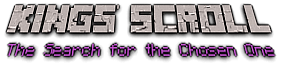
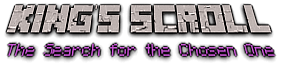
rewrote the tutorial to fit the theme

Changed region(s): [[0.3132, 0.0308, 0.4555, 0.5846]]

diff --git a/src/app/pages/game/tour.sheperd.ts b/src/app/pages/game/tour.sheperd.ts
@@ -1,4 +1,5 @@
 import { PropertyCombination } from "src/app/model/property-combination.interface";
+import { archMageName, dragonName, dragonTitle, kingdomName } from "./names-and-locations";
 
 export const sheperdRequiredElements = [
     {
@@ -24,9 +25,45 @@ const template = {
     },
     highlightClass: 'highlight',
     scrollTo: false,
+    title: `${archMageName} - The Archmage`,
+    buttons: [
+      {
+        classes: 'shepherd-button-primary',
+        text: 'Next',
+        type: 'next'
+      }
+  ]
 } 
 
+export const generalWorldIntroduction = [
+  {
+    ...template,
+    id: 'welcome',
+    text: [makeWizardDialogBody(`Greetings adventurer, welcome to the kingdom of ${kingdomName}!<br/><br/>My name is ${archMageName}, archmage and the king's most trusted advisor.`)],
+  },
+  {
+    ...template,
+    id: 'welcome',
+    text: [makeWizardDialogBody(
+      `Normally our kingdom is a beautiful place to visit, but I am afraid you caught us at a bad time.
+      <br/><br/>
+      Our kingdom is currently under attack by the evil dragon ${dragonName}, ${dragonTitle}.`
+      )],
+  },
+  {
+    ...template,
+    id: 'welcome',
+    text: [makeWizardDialogBody(
+      `According to ancient legends the magic scroll should tell us who to appoint as our chosen champion, the only one that can defeat ${dragonName}!
+      <br/><br/>
+      Unfortunately however I do not understand what the scroll is trying to tell me!
+      Can you help me decipher the scroll?`
+      )],
+  },
+];
+
 const steps = [
+    ...generalWorldIntroduction,
     {
         ...template,
         id: 'codeSnippet',
@@ -34,15 +71,7 @@ const steps = [
           element: '.codesnippet-container', 
           on: 'right'
         },
-        title: 'Code snippet!',
-        text: [makeWizardDialogBody('This is the code snippet that you should understand. Try to trace the execution of the script and predict the end-state of the boolean values.')],
-        buttons: [
-            {
-              classes: 'shepherd-button-primary',
-              text: 'Next',
-              type: 'next'
-            }
-        ]
+        text: [makeWizardDialogBody('This is the scroll that contains the description of the chosen one. Do you know what these symbols mean?')],
     },
     {
         ...template,
@@ -51,20 +80,7 @@ const steps = [
           element: '.tracing-helper-container', 
           on: 'right'
         },
-        title: 'Code tracer!',
-        text: [makeWizardDialogBody('This is your scribble zone that you can use to help yourself when tracing the code.')],
-        buttons: [
-            {
-              classes: 'shepherd-button-primary',
-              text: 'Back',
-              type: 'back'
-            },
-            {
-              classes: 'shepherd-button-primary',
-              text: 'Next',
-              type: 'next'
-            }
-        ]
+        text: [makeWizardDialogBody('The ancient mages also left some tools behind that are supposed to help you keep track of the state as you are deciphering the scroll, I am sure these tools can be of great help!')],
     },
     {
         ...template,
@@ -73,17 +89,12 @@ const steps = [
           element: '.gamefield-container', 
           on: 'left'
         },
-        title: 'Character grid!',
-        text: [makeWizardDialogBody('Try to click on the character that matches the result after running the code! For example if the variable headWear is false after running the code you should find a character that is not wearing any hat!')],
+        text: [makeWizardDialogBody(`Here you can see all the champions that are currently in the kingdom, if you have found the one that the scroll is talking about feel free to select them!
+        <br><br>No time to waste!`)],
         buttons: [
             {
               classes: 'shepherd-button-primary',
-              text: 'Back',
-              type: 'back'
-            },
-            {
-              classes: 'shepherd-button-primary',
-              text: 'Next',
+              text: 'Start the adventure!',
               type: 'next'
             }
         ]
@@ -94,89 +105,6 @@ const steps = [
 export function generateSteps(solution: PropertyCombination, chosenName: string, navigationCallback: (x: number) => void) {
   return [
     ...steps,
-    {
-      ...template,
-      id: 'solution',
-      attachTo: { 
-        element: '.codesnippet-container', 
-        on: 'right'
-      },
-      title: 'Trace the code!',
-      text: [makeWizardDialogBody(
-        `In this case executing the code will result in the following table:<br><br>
-        
-        <style type="text/css">
-.tg  {border-collapse:collapse;border-spacing:0;}
-.tg td{border-color:black;border-style:solid;border-width:1px;font-family:Arial, sans-serif;font-size:14px;
-  overflow:hidden;padding:10px 5px;word-break:normal;}
-.tg th{border-color:black;border-style:solid;border-width:1px;font-family:Arial, sans-serif;font-size:14px;
-  font-weight:normal;overflow:hidden;padding:10px 5px;word-break:normal;}
-.tg .tg-0lax{text-align:left;vertical-align:top}
-</style>
-<table class="tg">
-<tbody>
-  <tr>
-    <td class="tg-0lax">headWear</td>
-    <td class="tg-0lax">${solution.helmet}</td>
-  </tr>
-  <tr>
-    <td class="tg-0lax">tie</td>
-    <td class="tg-0lax">${solution.shield}</td>
-  </tr>
-  <tr>
-    <td class="tg-0lax">glasses</td>
-    <td class="tg-0lax">${solution.sword}</td>
-  </tr>
-  <tr>
-    <td class="tg-0lax">blue</td>
-    <td class="tg-0lax">${solution.cape}</td>
-  </tr>
-</tbody>
-</table>
-
-<br>
-Feel free to verify!`
-      )],
-      buttons: [
-          {
-            classes: 'shepherd-button-primary',
-            text: 'Back',
-            type: 'back'
-          },
-          {
-            classes: 'shepherd-button-primary',
-            text: 'Next',
-            type: 'next'
-          }
-      ]
-  },
-  {
-    ...template,
-    id: 'chosen one',
-    attachTo: { 
-      element: '.chosen-one', 
-      on: 'left'
-    },
-    title: 'The chosen one!',
-    text: [makeWizardDialogBody(
-      `It looks like ${chosenName} is the one we are looking for!
-      They are ${solution.cape ? 'blue' : 'pink'}, are${solution.sword ? ' ' : ' not'} wearing glasses,
-      are${solution.shield ? ' ' : ' not'} wearing a tie and are${solution.helmet ? ' ' : ' not'} wearing ${solution.helmet ? 'some' : 'any'} kind of headWear.
-      `
-    )],
-    buttons: [
-        {
-          classes: 'shepherd-button-primary',
-          text: 'Back',
-          type: 'back'
-        },
-        {
-          classes: 'shepherd-button-primary',
-          text: 'Finish tutorial',
-          type: 'next'
-        }
-    ]
-},
   ];
 }
 

diff --git a/src/app/pages/game/tour.mobile.sheperd.ts b/src/app/pages/game/tour.mobile.sheperd.ts
@@ -1,5 +1,5 @@
 import { PropertyCombination } from "src/app/model/property-combination.interface";
-import { makeWizardDialogBody } from "./tour.sheperd";
+import { generalWorldIntroduction, makeWizardDialogBody } from "./tour.sheperd";
 
 export const sheperdMobileRequiredElements = [];
 
@@ -23,7 +23,9 @@ export function generateMobileSteps(solution: PropertyCombination, chosenName: s
     });
   }
   
-  return [{
+  return [
+  ...generalWorldIntroduction,
+  {
     ...template,
     id: 'codeSnippet',
     beforeShowPromise: () => navigate(snippetIdx),
@@ -32,7 +34,7 @@ export function generateMobileSteps(solution: PropertyCombination, chosenName: s
       on: 'bottom'
     },
     title: 'Code snippet!',
-    text: [makeWizardDialogBody('This is the code snippet that you should understand. Try to trace the execution of the script and predict the end-state of the boolean values.')],
+    text: [makeWizardDialogBody('This is the scroll that contains the description of the chosen one. Do you know what these symbols mean?')],
     buttons: [
       {
         classes: 'shepherd-button-primary',
@@ -50,13 +52,8 @@ export function generateMobileSteps(solution: PropertyCombination, chosenName: s
       on: 'top'
     },
     title: 'Code tracer!',
-    text: [makeWizardDialogBody('This is your scribble zone that you can use to help yourself when tracing the code.')],
+    text: [makeWizardDialogBody('The ancient mages also left some tools behind that are supposed to help you keep track of the state as you are deciphering the scroll, I am sure these tools can be of great help!')],
     buttons: [
-      {
-        classes: 'shepherd-button-primary',
-        text: 'Back',
-        type: 'back'
-      },
       {
         classes: 'shepherd-button-primary',
         text: 'Next',
@@ -73,102 +70,11 @@ export function generateMobileSteps(solution: PropertyCombination, chosenName: s
       on: 'top'
     },
     title: 'Character grid!',
-    text: [makeWizardDialogBody('Try to click on the character that matches the result after running the code! For example if the variable helmet is false after running the code you should find a character that is not wearing any hat!')],
+    text: [makeWizardDialogBody('Here you can see all the champions that are currently in the kingdom, if you have found the one that the scroll is talking about feel free to select them!<br><br>No time to waste!')],
     buttons: [
-      {
-        classes: 'shepherd-button-primary',
-        text: 'Back',
-        type: 'back'
-      },
       {
         classes: 'shepherd-button-primary',
         text: 'Next',
-        type: 'next'
-      }
-    ]
-  },
-  {
-    ...template,
-    id: 'solution',
-    beforeShowPromise: () => navigate(snippetIdx),
-    attachTo: {
-      element: '.mobile-codesnippet-container',
-      on: 'bottom'
-    },
-    title: 'Trace the code!',
-    text: [makeWizardDialogBody(
-      `In this case executing the code will result in the following table:<br><br>
-      
-      <style type="text/css">
-.tg  {border-collapse:collapse;border-spacing:0;}
-.tg td{border-color:black;border-style:solid;border-width:1px;font-family:Arial, sans-serif;font-size:14px;
-overflow:hidden;padding:10px 5px;word-break:normal;}
-.tg th{border-color:black;border-style:solid;border-width:1px;font-family:Arial, sans-serif;font-size:14px;
-font-weight:normal;overflow:hidden;padding:10px 5px;word-break:normal;}
-.tg .tg-0lax{text-align:left;vertical-align:top}
-</style>
-<table class="tg">
-<tbody>
-<tr>
-  <td class="tg-0lax">headWear</td>
-  <td class="tg-0lax">${solution.helmet}</td>
-</tr>
-<tr>
-  <td class="tg-0lax">tie</td>
-  <td class="tg-0lax">${solution.shield}</td>
-</tr>
-<tr>
-  <td class="tg-0lax">glasses</td>
-  <td class="tg-0lax">${solution.sword}</td>
-</tr>
-<tr>
-  <td class="tg-0lax">blue</td>
-  <td class="tg-0lax">${solution.cape}</td>
-</tr>
-</tbody>
-</table>
-
-<br>
-Feel free to verify!`
-    )],
-    buttons: [
-      {
-        classes: 'shepherd-button-primary',
-        text: 'Back',
-        type: 'back'
-      },
-      {
-        classes: 'shepherd-button-primary',
-        text: 'Next',
-        type: 'next'
-      }
-    ]
-  },
-  {
-    ...template,
-    id: 'chosen one',
-    beforeShowPromise: () => navigate(characterIdx),
-    attachTo: {
-      element: '.chosen-one',
-      on: 'top'
-    },
-    scrollTo: true,
-    title: 'The chosen one!',
-    text: [makeWizardDialogBody(
-      `It looks like ${chosenName} is the one we are looking for!
-    They are ${solution.cape ? 'blue' : 'pink'}, are${solution.sword ? ' ' : ' not'} wearing glasses,
-    are${solution.shield ? ' ' : ' not'} wearing a tie and are${solution.helmet ? ' ' : ' not'} wearing ${solution.helmet ? 'some' : 'any'} kind of headWear.
-    `
-    )],
-    buttons: [
-      {
-        classes: 'shepherd-button-primary',
-        text: 'Back',
-        type: 'back'
-      },
-      {
-        classes: 'shepherd-button-primary',
-        text: 'Finish tutorial',
         type: 'next'
       }
     ]

diff --git a/src/index.html b/src/index.html
@@ -2,7 +2,7 @@
 <html lang="en">
 <head>
   <meta charset="utf-8">
-  <title>Kings' Scroll: The Search for the Chosen One</title>
+  <title>King's Scroll: The Search for the Chosen One</title>
   <base href="/">
   <meta name="viewport" content="width=device-width, initial-scale=1">
 

diff --git a/src/app/pages/game/names-and-locations.ts b/src/app/pages/game/names-and-locations.ts
@@ -1,0 +1,4 @@
+export const kingdomName = "Gruigeniel";
+export const archMageName = "Thajahr";
+export const dragonName = "Dykit";
+export const dragonTitle = "The Taker Of Life";
